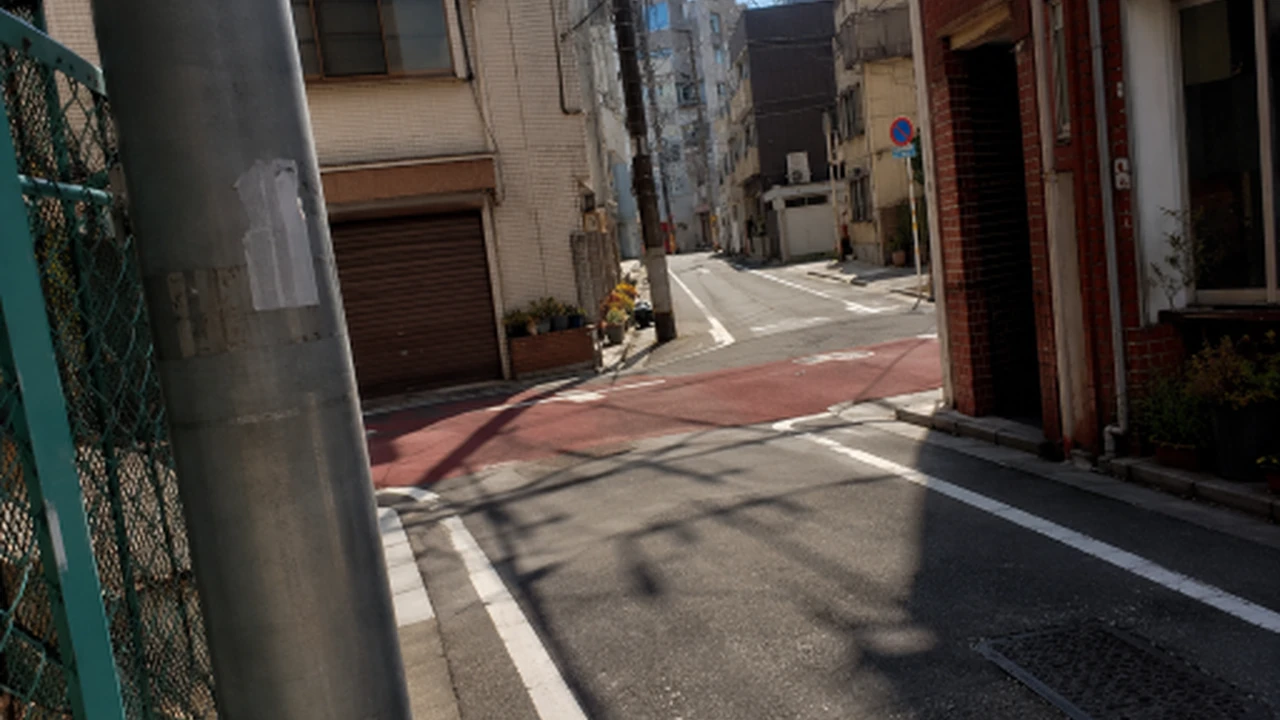
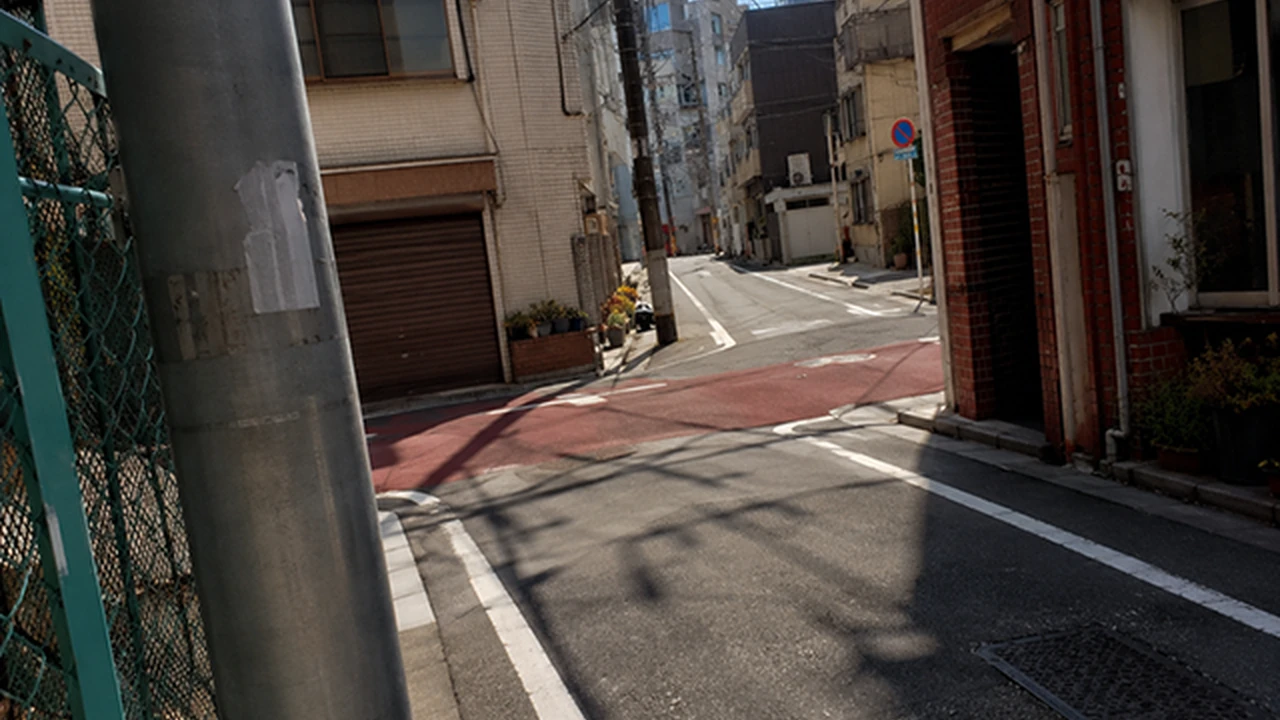
Use Test4 as street preset source

diff --git a/acm/src/pages/VhsSimulatorPage.vue b/acm/src/pages/VhsSimulatorPage.vue
@@ -700,7 +700,7 @@ onUnmounted(() => {
               </a>
               <figcaption class="preset-comparison-caption">
                 <span data-caption-text>街路の細い線と日なた・影で、輪郭、色、走行の乱れを比較できます。</span>
-                <a class="preset-source-link" href="/images/vhs-simulator/screenshots/preset-source-street.webp" target="_blank" rel="noopener" data-lightbox="image" data-lightbox-alt="日なたと影のある街路の加工前画像" data-lightbox-caption="加工前の元画像">元画像を見る</a>
+                <a class="preset-source-link" href="/images/vhs-simulator/screenshots/preset-source-street.webp?v=test4" target="_blank" rel="noopener" data-lightbox="image" data-lightbox-alt="日なたと影のある街路の加工前画像" data-lightbox-caption="加工前の元画像">元画像を見る</a>
               </figcaption>
             </figure>
             <div id="preset" class="preset-grid">
